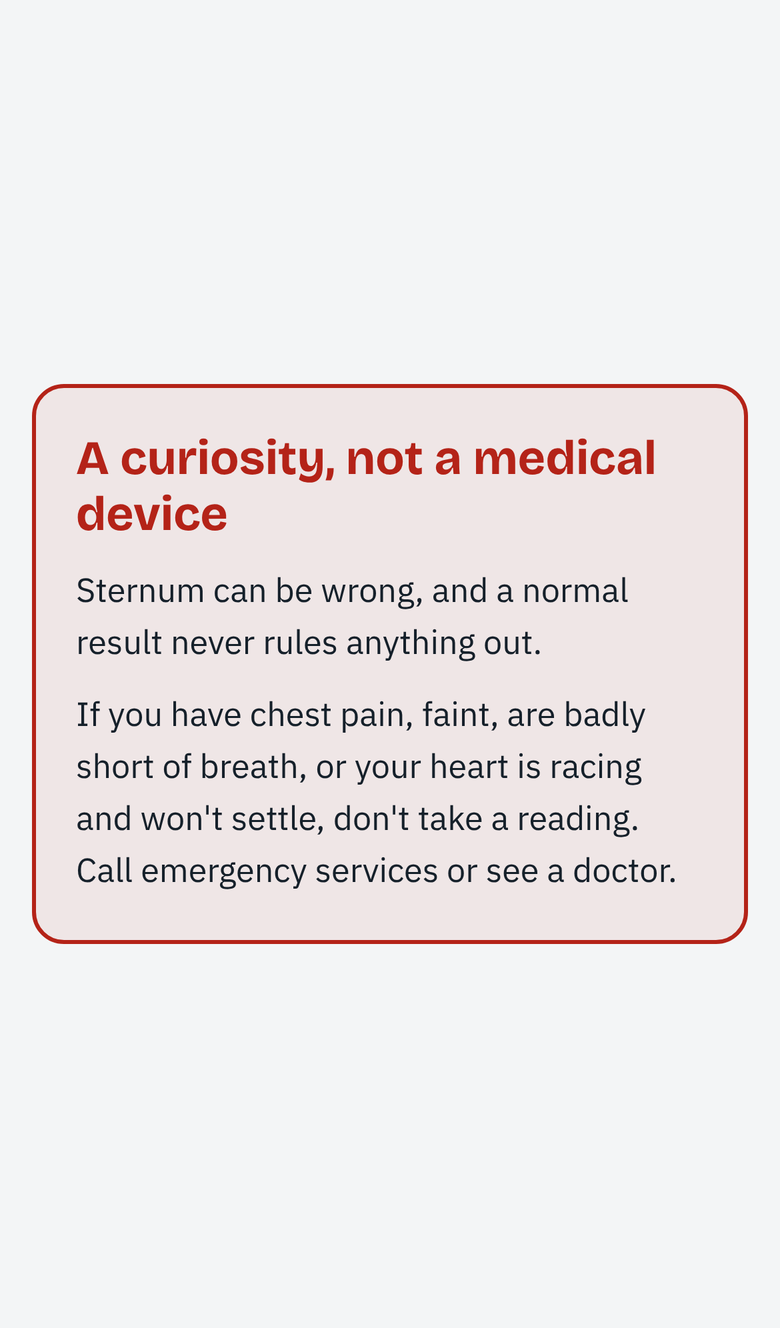
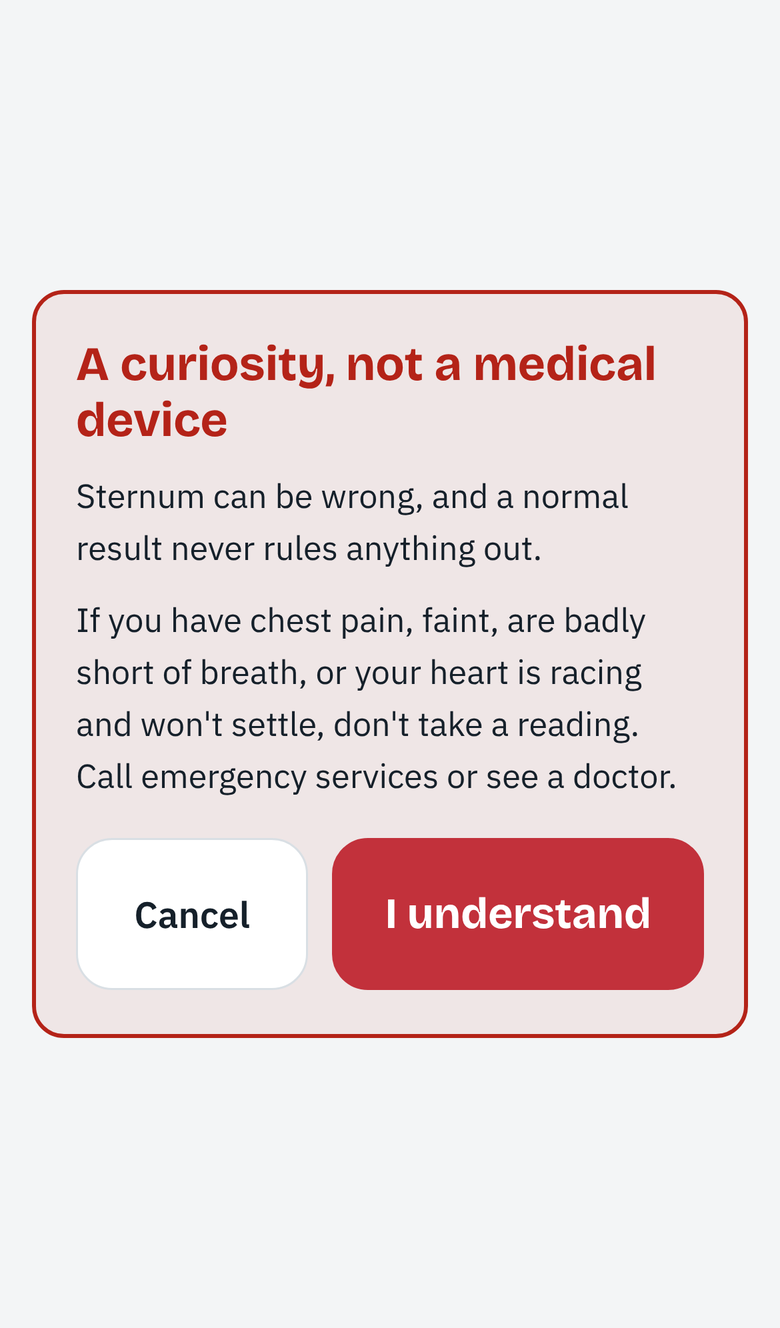
Safety note waits for an I understand tap instead of a timer (#3)
Claude-Session: https://claude.ai/code/session_01PqYzxjYGHHQ4LtS2t6Qgvf

diff --git a/index.html b/index.html
@@ -161,6 +161,7 @@ figcaption { font-size: .72rem; letter-spacing: .07em; text-transform: uppercase
 .warn-card { border: 2px solid var(--alert); border-radius: 16px; padding: 22px 20px; display: flex; flex-direction: column; gap: 10px; background: color-mix(in srgb, var(--alert) 7%, var(--bg)) }
 .warn-card b { color: var(--alert); font: 700 1.5rem/1.15 var(--display) }
 .warn-card p { margin: 0; font-size: 1.05rem }
+.warn-actions { display: grid; grid-template-columns: 1fr 1.6fr; gap: 12px; margin-top: 8px }
 .settle-top { display: flex; justify-content: space-between; align-items: center; gap: 12px }
 .settle-top h2 { margin: 0 }
 .settle-top p { margin: 2px 0 0 }
@@ -316,6 +317,7 @@ details.more[open] > summary, details.more-charts[open] > summary { margin-botto
           <b>A curiosity, not a medical device</b>
           <p>Sternum can be wrong, and a normal result never rules anything out.</p>
           <p>If you have chest pain, faint, are badly short of breath, or your heart is racing and won't settle, don't take a reading. Call emergency services or see a doctor.</p>
+          <div class="warn-actions"><button class="big-quiet" id="btn-warn-cancel">Cancel</button><button class="go" id="btn-warn-ok">I understand</button></div>
         </div>
       </div>
       <div id="live-settle" class="live-settle" hidden>
@@ -1693,7 +1695,7 @@ $('#btn-live').onclick = async () => {
   const motionAsk = typeof DeviceMotionEvent !== 'undefined' && typeof DeviceMotionEvent.requestPermission === 'function' ? DeviceMotionEvent.requestPermission().catch(() => 'denied') : Promise.resolve('granted');
   $('#start-msg').hidden = true;
   const ui = { live: $('#live'), phase: $('#live-phase'), count: $('#live-count'), unit: $('#live-unit'), bar: $('#live-bar'), bpm: $('#live-bpm'), bpmNote: $('#live-bpm-note'), settleCount: $('#settle-count'), stop: $('#btn-stop') };
-  const tShown = performance.now(), show = id => ['#live-warn', '#live-settle', '#live-rec'].forEach(k => $(k).hidden = k !== id);
+  const show = id => ['#live-warn', '#live-settle', '#live-rec'].forEach(k => $(k).hidden = k !== id);
   ui.live.hidden = false; document.body.style.overflow = 'hidden'; show('#live-warn'); $('#live-actions').hidden = true; ui.stop.hidden = true;
   ui.settleCount.textContent = '10'; ui.bpm.textContent = '--'; ui.bpmNote.textContent = 'finding your pulse'; ui.bar.style.width = '0'; ui.stop.disabled = true;
 
@@ -1742,8 +1744,9 @@ $('#btn-live').onclick = async () => {
       : 'This browser did not give the page any motion data. Open Sternum on your phone (Safari on iPhone, Chrome on Android) over https and allow motion access when asked.');
     return;
   }
-  // the safety note gets the screen to itself for 3 s
-  await new Promise(r => setTimeout(r, Math.max(0, 3000 - (performance.now() - tShown))));
+  // the safety note stays up until it's acknowledged
+  const ok = await new Promise(r => { $('#btn-warn-ok').onclick = () => r(true); $('#btn-warn-cancel').onclick = () => r(false); });
+  if (!ok) { cleanup(); return; }
   show('#live-settle'); $('#live-actions').hidden = false;
 
   const css = getComputedStyle(document.documentElement);

diff --git a/src/page.html b/src/page.html
@@ -161,6 +161,7 @@ figcaption { font-size: .72rem; letter-spacing: .07em; text-transform: uppercase
 .warn-card { border: 2px solid var(--alert); border-radius: 16px; padding: 22px 20px; display: flex; flex-direction: column; gap: 10px; background: color-mix(in srgb, var(--alert) 7%, var(--bg)) }
 .warn-card b { color: var(--alert); font: 700 1.5rem/1.15 var(--display) }
 .warn-card p { margin: 0; font-size: 1.05rem }
+.warn-actions { display: grid; grid-template-columns: 1fr 1.6fr; gap: 12px; margin-top: 8px }
 .settle-top { display: flex; justify-content: space-between; align-items: center; gap: 12px }
 .settle-top h2 { margin: 0 }
 .settle-top p { margin: 2px 0 0 }
@@ -316,6 +317,7 @@ details.more[open] > summary, details.more-charts[open] > summary { margin-botto
           <b>A curiosity, not a medical device</b>
           <p>Sternum can be wrong, and a normal result never rules anything out.</p>
           <p>If you have chest pain, faint, are badly short of breath, or your heart is racing and won't settle, don't take a reading. Call emergency services or see a doctor.</p>
+          <div class="warn-actions"><button class="big-quiet" id="btn-warn-cancel">Cancel</button><button class="go" id="btn-warn-ok">I understand</button></div>
         </div>
       </div>
       <div id="live-settle" class="live-settle" hidden>
@@ -1092,7 +1094,7 @@ $('#btn-live').onclick = async () => {
   const motionAsk = typeof DeviceMotionEvent !== 'undefined' && typeof DeviceMotionEvent.requestPermission === 'function' ? DeviceMotionEvent.requestPermission().catch(() => 'denied') : Promise.resolve('granted');
   $('#start-msg').hidden = true;
   const ui = { live: $('#live'), phase: $('#live-phase'), count: $('#live-count'), unit: $('#live-unit'), bar: $('#live-bar'), bpm: $('#live-bpm'), bpmNote: $('#live-bpm-note'), settleCount: $('#settle-count'), stop: $('#btn-stop') };
-  const tShown = performance.now(), show = id => ['#live-warn', '#live-settle', '#live-rec'].forEach(k => $(k).hidden = k !== id);
+  const show = id => ['#live-warn', '#live-settle', '#live-rec'].forEach(k => $(k).hidden = k !== id);
   ui.live.hidden = false; document.body.style.overflow = 'hidden'; show('#live-warn'); $('#live-actions').hidden = true; ui.stop.hidden = true;
   ui.settleCount.textContent = '10'; ui.bpm.textContent = '--'; ui.bpmNote.textContent = 'finding your pulse'; ui.bar.style.width = '0'; ui.stop.disabled = true;
 
@@ -1141,8 +1143,9 @@ $('#btn-live').onclick = async () => {
       : 'This browser did not give the page any motion data. Open Sternum on your phone (Safari on iPhone, Chrome on Android) over https and allow motion access when asked.');
     return;
   }
-  // the safety note gets the screen to itself for 3 s
-  await new Promise(r => setTimeout(r, Math.max(0, 3000 - (performance.now() - tShown))));
+  // the safety note stays up until it's acknowledged
+  const ok = await new Promise(r => { $('#btn-warn-ok').onclick = () => r(true); $('#btn-warn-cancel').onclick = () => r(false); });
+  if (!ok) { cleanup(); return; }
   show('#live-settle'); $('#live-actions').hidden = false;
 
   const css = getComputedStyle(document.documentElement);

diff --git a/README.md b/README.md
@@ -8,7 +8,7 @@ Sternum is a web app that turns a phone's motion sensors into a heart and breath
 
 <p>
   <img src="docs/record.png" width="200" alt="Record screen">
-  <img src="docs/warning.png" width="200" alt="Safety note shown alone for three seconds">
+  <img src="docs/warning.png" width="200" alt="Safety note with an I understand button">
   <img src="docs/countdown.png" width="200" alt="Countdown screen with the placement diagram">
   <img src="docs/recording.png" width="200" alt="Recording screen with a tall countdown and heart rate">
   <img src="docs/reading.png" width="200" alt="A reading explained in plain English">
@@ -46,7 +46,7 @@ Add it to the Home Screen. Safari deletes a website's data if you don't visit fo
 
 ## How a reading works
 
-Tap **Start reading** and allow motion access. A safety note shows on its own for 3 seconds, then a 10-second countdown to get into position, with a diagram of where the phone goes. Then a chime, and the recording (60 s, 90 s or 2 min) with a live pulse and chest motion view. During the recording the time left and heart rate are drawn tall and narrow, so they stay legible when you glance down the phone from your chin. A rising three-note chime means it's done, and the screen stays awake throughout.
+Tap **Start reading** and allow motion access. A safety note comes first; tap **I understand** and you get a 10-second countdown to get into position, with a diagram of where the phone goes. Then a chime, and the recording (60 s, 90 s or 2 min) with a live pulse and chest motion view. During the recording the time left and heart rate are drawn tall and narrow, so they stay legible when you glance down the phone from your chin. A rising three-note chime means it's done, and the screen stays awake throughout.
 
 ## Developing
 
